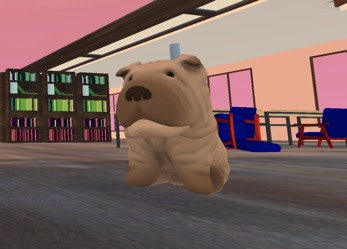
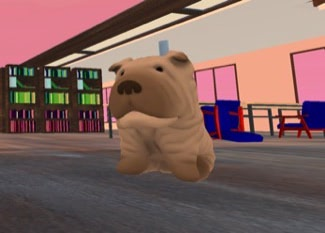
Fixed videos autoplay in the tutorial webpage

diff --git a/Tutorial.hyperesources/tutorial_hype_generated_script.js b/Tutorial.hyperesources/tutorial_hype_generated_script.js
@@ -3,5 +3,5 @@
 (function(){(function m(){function k(a,b,c,d){var e=!1;null==window[a]&&(null==window[b]?(window[b]=[],window[b].push(m),a=document.getElementsByTagName("head")[0],b=document.createElement("script"),e=l,false==!0&&(e=""),b.type="text/javascript",""!=d&&(b.integrity=d,b.setAttribute("crossorigin","anonymous")),b.src=e+"/"+c,a.appendChild(b)):window[b].push(m),e=!0);return e}var l="Tutorial.hyperesources",f="Tutorial",g="tutorial_hype_container";if(false==
 !1)try{for(var c=document.getElementsByTagName("script"),a=0;a<c.length;a++){var d=c[a].src,b=null!=d?d.indexOf("/tutorial_hype_generated_script.js"):-1;if(-1!=b){l=d.substr(0,b);break}}}catch(p){}c=null==navigator.userAgentData&&navigator.userAgent.match(/MSIE (\d+\.\d+)/);c=parseFloat(c&&c[1])||null;d=!0==(null!=window.HYPE_772F||null!=window.HYPE_dtl_772F)||false==!0||null!=c&&10>c;a=!0==d?"HYPE-772.full.min.js":"HYPE-772.thin.min.js";c=!0==d?"F":"T";
 d=d?"":"";if(false==!1&&(a=k("HYPE_772"+c,"HYPE_dtl_772"+c,a,d),false==!0&&(a=a||k("HYPE_w_772","HYPE_wdtl_772","HYPE-772.waypoints.min.js","")),false==!0&&(a=a||k("Matter","HYPE_pdtl_772","HYPE-772.physics.min.js","")),a))return;d=window.HYPE.documents;if(null!=d[f]){b=1;a=f;do f=""+a+"-"+b++;while(null!=d[f]);for(var e=
-document.getElementsByTagName("div"),b=!1,a=0;a<e.length;a++)if(e[a].id==g&&null==e[a].getAttribute("HYP_dn")){var b=1,h=g;do g=""+h+"-"+b++;while(null!=document.getElementById(g));e[a].id=g;b=!0;break}if(!1==b)return}b=[];b=[];e={};h={};for(a=0;a<b.length;a++)try{h[b[a].identifier]=b[a].name,e[b[a].name]=eval("(function(){return "+b[a].source+"})();")}catch(n){window.console&&window.console.log(n),e[b[a].name]=function(){}}c=new window["HYPE_772"+c](f,g,{"3":{n:"camera.mp4",g:"14",t:"video/mp4"},"-2":{n:"blank.gif"},"4":{p:1,n:"bg.jpg",g:"60",o:true,t:"@1x"},"0":{n:"smartphone.mp4",g:"8",t:"video/mp4"},"1":{n:"movement.mp4",g:"10",t:"video/mp4"},"2":{p:1,n:"dog.jpg",g:"12",t:"@1x"},"-1":{n:"PIE.htc"}},
-l,[],e,[{n:"Tutorial Scene",o:"1",X:[0,1]}],[{o:"74",p:"600px",cA:false,a:100,Z:1600,Y:812,c:"#FFF",L:[],bY:1,d:320,U:{},T:{kTimelineDefaultIdentifier:{q:false,z:12.1,i:"kTimelineDefaultIdentifier",n:"Main Timeline",a:[{y:0,p:1,i:"Video Track",z:7.26,o:"80",f:"c"},{y:0,p:1,i:"Video Track",z:11.16,o:"83",f:"c"},{y:0,p:1,i:"Video Track",z:12.1,o:"78",f:"c"}],f:30,b:[]}},bZ:180,O:["84","77","75","76","83","78","80","79","81","82"],n:"iPhone","_":0,v:{"78":{aR:"1",x:"visible",bE:"14",a:389,bS:41,j:"absolute",bF:"75",b:662,aO:"0",z:6,d:233,aK:24,aJ:24,k:"video",aI:24,c:332,aL:24,aQ:"1",aH:"1"},"81":{h:"12",p:"no-repeat",x:"visible",a:396,q:"100% 100%",bS:41,j:"absolute",r:"inline",bF:"75",b:1206,z:5,d:233,aK:24,dB:"img",aJ:24,k:"div",aI:24,aL:24,c:325},"76":{aU:8,G:"#EBEBEB",c:691,bS:44,aV:8,r:"inline",d:1330,s:"Helvetica,Arial,Sans-Serif",t:16,Z:"break-word",w:"<div><span style=\"font-weight: bold; font-size: 24px;\">Once upon a time...</span><br></div><div>Every day a boy \ud83d\udc68\ud83c\udffd\u200d\ud83d\udcbb wakes up and goes to the library \ud83d\udcda to focus on his projects, some days though, it's very hard to do so, everything seems to distract him. \ud83d\ude2b</div><div>&nbsp;</div><div>Today in the jungle, I mean, the library, hidden between the bookshelfs there are his worst concentration saboteurs: <span style=\"font-style: italic;\">the ringing smartphones</span>.</div><div>&nbsp;</div><div>&nbsp;There is only one way to focus today, he needs to <span style=\"font-weight: bold;\">mute 'em all! </span>\ud83d\udd15</div><div>&nbsp;</div><div><br></div><div><br></div><div>&nbsp;</div><div><span style=\"font-weight: bold; font-size: 32px;\">How to play</span></div><div><span style=\"font-weight: bold;\"><br></span></div><div>&nbsp;</div><div><br></div><div><br></div><div><br></div><div><br></div><div><br></div><div><br></div><div>&nbsp;\ud83c\udfc3\u200d\u2642\ufe0f Drag the left side of the screen to <span style=\"font-weight: bold;\">walk</span></div><div>&nbsp;</div><div>&nbsp;</div><div><br></div><div><br></div><div><br></div><div><br></div><div><br></div><div>&nbsp;</div><div><br></div><div><br></div><div><br></div><div><br></div><div><br></div><div>&nbsp;\ud83c\udfa5 Drag the right side to move the <span style=\"font-weight: bold;\">camera</span></div><div><span style=\"font-weight: bold;\"><br></span></div><div><span style=\"font-weight: bold;\"><br></span></div><div><span style=\"font-weight: bold;\"><br></span></div><div><span style=\"font-weight: bold;\"><br></span></div><div><span style=\"font-weight: bold;\"><br></span></div><div><span style=\"font-weight: bold;\"><br></span></div><div><span style=\"font-weight: bold;\"><br></span></div><div><span style=\"font-weight: bold;\"><br></span></div><div><span style=\"font-weight: bold;\"><br></span></div><div>&nbsp;</div><div>&nbsp;</div><div>&nbsp;</div><div><br></div><div><br></div><div><br></div><div><br></div><div><br></div><div><br></div><div><br></div><div>&nbsp;</div><div><br></div><div><br></div><div><br></div><div><br></div><div><br></div><div><br></div><div><br></div><div><br></div><div><br></div><div><br></div><div><br></div><div><br></div><div><br></div><div><br></div><div><br></div><div><br></div><div><br></div><div><br></div><div><br></div>",bF:"75",j:"absolute",x:"visible",k:"div",y:"preserve",z:8,aS:8,aT:8,a:32,b:40},"84":{w:"",h:"60",p:"no-repeat",a:-1082,bS:191,q:"100% 100%",bA:"#000",j:"absolute",r:"inline",x:"visible",b:0,bB:0,d:1600,z:1,dB:"img",k:"div",bC:0,c:3186,aZ:0},"79":{aU:8,bB:0,G:"#000",c:400,bS:44,aV:8,r:"inline",d:67,bC:0,s:"Helvetica,Arial,Sans-Serif",t:16,Z:"break-word",w:"<span style=\"caret-color: rgb(235, 235, 235); color: rgb(235, 235, 235);\">\ud83d\ude21 What the heck? these smartphones are going crazy!! Find the ringing phone and mute it, someone must be messing with them, cause they fire one after the other!</span><br>",bF:"75",j:"absolute",x:"visible",aZ:0,k:"div",y:"preserve",z:2,aS:8,aT:8,a:32,bA:"#000",b:1009},"82":{aU:8,G:"#000",c:309,bS:44,aV:8,r:"inline",d:50,s:"Helvetica,Arial,Sans-Serif",t:16,Z:"break-word",w:"<div style=\"color: rgb(235, 235, 235); font-size: 16px; font-family: Helvetica, Arial, sans-serif; font-style: normal; font-variant-caps: normal; text-decoration: none; text-align: left; text-transform: none; text-indent: 0px; letter-spacing: normal; white-space: normal; word-spacing: 0px; border-width: medium; border-style: none; caret-color: rgb(235, 235, 235);\">\ud83d\udc36 Your&nbsp;<span style=\"font-weight: bold; border-width: medium; border-style: none;\">spiteful dog&nbsp;</span>is running under the tables, catching him won't be easy, he'll try to run away from you!</div>",bF:"75",j:"absolute",x:"visible",k:"div",y:"preserve",z:9,aS:8,aT:8,a:32,b:1290},"77":{b:0,z:1,K:"Solid",BDbK:0.95933361,c:742,L:"Solid",d:1473,gg:"2",BDbG:0,e:1,M:1,N:1,aS:1,bS:45,O:1,aT:1,aU:1,P:1,bF:"75",BDbL:6,aV:1,Q:0,R:"#000",j:"absolute",aW:0,S:0,k:"div",T:0,aI:36,aJ:36,aK:36,BDbI:1.2,aL:36,A:"rgba(216, 221, 228, 0.094)",B:"rgba(216, 221, 228, 0.094)",bL:0,C:"rgba(216, 221, 228, 0.094)",D:"rgba(216, 221, 228, 0.094)",BDbJ:1.20476444,w:"",x:"visible",I:"Solid",a:0,J:"Solid"},"80":{aR:"1",x:"visible",bE:"8",a:476,bS:41,j:"absolute",bF:"75",b:934,aO:"0",z:3,d:233,aK:24,aJ:24,k:"video",aI:24,c:245,aL:24,aQ:"1",aH:"1"},"75":{x:"visible",cY:"0",k:"div",c:927,d:1521,z:4,a:34,bS:173,j:"absolute",b:45},"83":{c:287,bS:41,d:233,aO:"0",bE:"10",aH:"1",bF:"75",aI:24,j:"absolute",dA:"1",x:"visible",aR:"1",aJ:24,k:"video",aQ:"1",z:4,aK:24,a:434,aL:24,b:390}}},{o:"3",p:"600px",cA:false,a:100,Z:1600,Y:1024,c:"#FFF",L:[],bY:1,d:1024,U:{},T:{kTimelineDefaultIdentifier:{q:false,z:12.1,i:"kTimelineDefaultIdentifier",n:"Main Timeline",a:[{y:0,p:1,i:"Video Track",z:7.26,o:"90",f:"c"},{y:0,p:1,i:"Video Track",z:11.16,o:"89",f:"c"},{y:0,p:1,i:"Video Track",z:12.1,o:"91",f:"c"}],f:30,b:[]}},bZ:180,O:["94","93","85","87","89","91","90","88","86","92"],n:"iPad","_":1,v:{"91":{aR:"1",x:"visible",bE:"14",a:550,bS:41,j:"absolute",bF:"85",b:662,aO:"0",z:6,d:233,aK:24,aJ:24,k:"video",aI:24,c:332,aL:24,aQ:"1",aH:"1"},"86":{h:"12",p:"no-repeat",x:"visible",a:557,q:"100% 100%",bS:41,j:"absolute",r:"inline",bF:"85",b:1206,z:5,d:233,aK:24,dB:"img",aJ:24,k:"div",aI:24,aL:24,c:325},"94":{w:"",h:"60",p:"no-repeat",a:-1082,bS:191,q:"100% 100%",bA:"#000",j:"absolute",r:"inline",x:"visible",b:0,bB:0,d:1600,z:1,dB:"img",k:"div",bC:0,c:3186,aZ:0},"89":{c:287,bS:41,d:233,aO:"0",bE:"10",aH:"1",bF:"85",aI:24,j:"absolute",dA:"1",x:"visible",aR:"1",aJ:24,k:"video",aQ:"1",z:4,aK:24,a:595,aL:24,b:390},"92":{aU:8,G:"#000",c:427,bS:44,aV:8,r:"inline",d:50,s:"Helvetica,Arial,Sans-Serif",t:16,Z:"break-word",w:"<div style=\"color: rgb(235, 235, 235); font-size: 16px; font-family: Helvetica, Arial, sans-serif; font-style: normal; font-variant-caps: normal; text-decoration: none; text-align: left; text-transform: none; text-indent: 0px; letter-spacing: normal; white-space: normal; word-spacing: 0px; border-width: medium; border-style: none; caret-color: rgb(235, 235, 235);\">\ud83d\udc36 Your&nbsp;<span style=\"font-weight: bold; border-width: medium; border-style: none;\">spiteful dog&nbsp;</span>is running under the tables, catching him won't be easy, he'll try to run away from you!</div>",bF:"85",j:"absolute",x:"visible",k:"div",y:"preserve",z:9,aS:8,aT:8,a:32,b:1290},"87":{aU:8,G:"#EBEBEB",c:869,bS:44,aV:8,r:"inline",d:1330,s:"Helvetica,Arial,Sans-Serif",t:16,Z:"break-word",w:"<div><span style=\"font-weight: bold; font-size: 24px;\">Once upon a time...</span><br></div><div>Every day a boy \ud83d\udc68\ud83c\udffd\u200d\ud83d\udcbb wakes up and goes to the library \ud83d\udcda to focus on his projects, some days though, it's very hard to do so, everything seems to distract him. \ud83d\ude2b</div><div>&nbsp;</div><div>Today in the jungle, I mean, the library, hidden between the bookshelfs there are his worst concentration saboteurs: <span style=\"font-style: italic;\">the ringing smartphones</span>.</div><div>&nbsp;</div><div>&nbsp;There is only one way to focus today, he needs to <span style=\"font-weight: bold;\">mute 'em all! </span>\ud83d\udd15</div><div>&nbsp;</div><div><br></div><div><br></div><div>&nbsp;</div><div>&nbsp;<span style=\"font-weight: bold; font-size: 36px;\">How to play</span></div><div><span style=\"font-weight: bold;\"><br></span></div><div>&nbsp;</div><div><br></div><div><br></div><div><br></div><div><br></div><div><br></div><div><br></div><div>&nbsp;\ud83c\udfc3\u200d\u2642\ufe0f Drag the left side of the screen to <span style=\"font-weight: bold;\">walk</span></div><div>&nbsp;</div><div>&nbsp;</div><div><br></div><div><br></div><div><br></div><div><br></div><div><br></div><div>&nbsp;</div><div><br></div><div><br></div><div><br></div><div><br></div><div><br></div><div>&nbsp;\ud83c\udfa5 Drag the right side to move the <span style=\"font-weight: bold;\">camera</span></div><div><span style=\"font-weight: bold;\"><br></span></div><div><span style=\"font-weight: bold;\"><br></span></div><div><span style=\"font-weight: bold;\"><br></span></div><div><span style=\"font-weight: bold;\"><br></span></div><div><span style=\"font-weight: bold;\"><br></span></div><div><span style=\"font-weight: bold;\"><br></span></div><div><span style=\"font-weight: bold;\"><br></span></div><div><span style=\"font-weight: bold;\"><br></span></div><div><span style=\"font-weight: bold;\"><br></span></div><div>&nbsp;</div><div>&nbsp;</div><div>&nbsp;</div><div><br></div><div><br></div><div><br></div><div><br></div><div><br></div><div><br></div><div><br></div><div>&nbsp;</div><div><br></div><div><br></div><div><br></div><div><br></div><div><br></div><div><br></div><div><br></div><div><br></div><div><br></div><div><br></div><div><br></div><div><br></div><div><br></div><div><br></div><div><br></div><div><br></div><div><br></div><div><br></div><div><br></div>",bF:"85",j:"absolute",x:"visible",k:"div",y:"preserve",z:8,aS:8,aT:8,a:32,b:40},"90":{aR:"1",x:"visible",bE:"8",a:637,bS:41,j:"absolute",bF:"85",b:934,aO:"0",z:3,d:233,aK:24,aJ:24,k:"video",aI:24,c:245,aL:24,aQ:"1",aH:"1"},"85":{x:"visible",cY:"0",k:"div",c:927,d:1521,z:4,a:47,bS:173,j:"absolute",b:45},"93":{b:0,z:1,K:"Solid",BDbK:0.95933361,c:923,L:"Solid",d:1473,gg:"2",BDbG:0,e:1,M:1,N:1,aS:1,bS:45,O:1,aT:1,aU:1,P:1,bF:"85",BDbL:6,aV:1,Q:0,R:"#000",j:"absolute",aW:0,S:0,k:"div",T:0,aI:36,aJ:36,aK:36,BDbI:1.2,aL:36,A:"rgba(216, 221, 228, 0.094)",B:"rgba(216, 221, 228, 0.094)",bL:0,C:"rgba(216, 221, 228, 0.094)",D:"rgba(216, 221, 228, 0.094)",BDbJ:1.20476444,w:"",x:"visible",I:"Solid",a:0,J:"Solid"},"88":{aU:8,bB:0,G:"#000",c:427,bS:44,aV:8,r:"inline",d:67,bC:0,s:"Helvetica,Arial,Sans-Serif",t:16,Z:"break-word",w:"<span style=\"caret-color: rgb(235, 235, 235); color: rgb(235, 235, 235);\">\ud83d\ude21 What the heck? these smartphones are going crazy!! Find the ringing phone and mute it, someone must be messing with them, cause they fire one after the other!</span><br>",bF:"85",j:"absolute",x:"visible",aZ:0,k:"div",y:"preserve",z:2,aS:8,aT:8,a:32,bA:"#000",b:1009}}}],{},h,{},null,false,true,-1,true,true,false,true,true);d[f]=c.API;document.getElementById(g).setAttribute("HYP_dn",f);c.z_o(this.body)})();})();
+document.getElementsByTagName("div"),b=!1,a=0;a<e.length;a++)if(e[a].id==g&&null==e[a].getAttribute("HYP_dn")){var b=1,h=g;do g=""+h+"-"+b++;while(null!=document.getElementById(g));e[a].id=g;b=!0;break}if(!1==b)return}b=[];b=[];e={};h={};for(a=0;a<b.length;a++)try{h[b[a].identifier]=b[a].name,e[b[a].name]=eval("(function(){return "+b[a].source+"})();")}catch(n){window.console&&window.console.log(n),e[b[a].name]=function(){}}c=new window["HYPE_772"+c](f,g,{"3":{p:1,n:"dog_2x.jpg",g:"12",o:true,t:"@2x"},"-2":{n:"blank.gif"},"4":{n:"camera.mp4",g:"14",t:"video/mp4"},"0":{n:"smartphone.mp4",g:"8",t:"video/mp4"},"5":{p:1,n:"bg.jpg",g:"60",o:true,t:"@1x"},"1":{n:"movement.mp4",g:"10",t:"video/mp4"},"-1":{n:"PIE.htc"},"2":{p:1,n:"dog.jpg",g:"12",o:true,t:"@1x"}},
+l,[],e,[{n:"Tutorial Scene",o:"1",X:[0,1]}],[{o:"74",p:"600px",cA:false,a:100,Z:1600,Y:812,c:"#FFF",L:[],bY:1,d:320,U:{},T:{kTimelineDefaultIdentifier:{q:false,z:12.1,i:"kTimelineDefaultIdentifier",n:"Main Timeline",a:[{y:0,p:1,i:"Video Track",z:7.26,o:"80",f:"c"},{y:0,p:1,i:"Video Track",z:11.16,o:"83",f:"c"},{y:0,p:1,i:"Video Track",z:12.1,o:"78",f:"c"}],f:30,b:[]}},bZ:180,O:["84","77","75","76","83","78","80","79","81","82"],n:"iPhone","_":0,v:{"78":{c:332,bS:41,d:233,aO:"0",bE:"14",aH:"1",bF:"75",aI:24,j:"absolute",dA:true,x:"visible",aR:"1",aJ:24,k:"video",aQ:"1",z:6,aK:24,a:389,aL:24,b:662},"81":{h:"12",p:"no-repeat",x:"visible",a:396,q:"100% 100%",bS:41,j:"absolute",r:"inline",bF:"75",b:1206,z:5,d:233,aK:24,dB:"img",aJ:24,k:"div",aI:24,aL:24,c:325},"76":{aU:8,G:"#EBEBEB",c:691,bS:44,aV:8,r:"inline",d:1330,s:"Helvetica,Arial,Sans-Serif",t:16,Z:"break-word",w:"<div><span style=\"font-weight: bold; font-size: 24px;\">Once upon a time...</span><br></div><div>Every day a boy \ud83d\udc68\ud83c\udffd\u200d\ud83d\udcbb wakes up and goes to the library \ud83d\udcda to focus on his projects, some days though, it's very hard to do so, everything seems to distract him. \ud83d\ude2b</div><div>&nbsp;</div><div>Today in the jungle, I mean, the library, hidden between the bookshelfs there are his worst concentration saboteurs: <span style=\"font-style: italic;\">the ringing smartphones</span>.</div><div>&nbsp;</div><div>&nbsp;There is only one way to focus today, he needs to <span style=\"font-weight: bold;\">mute 'em all! </span>\ud83d\udd15</div><div>&nbsp;</div><div><br></div><div><br></div><div>&nbsp;</div><div><span style=\"font-weight: bold; font-size: 32px;\">How to play</span></div><div><span style=\"font-weight: bold;\"><br></span></div><div>&nbsp;</div><div><br></div><div><br></div><div><br></div><div><br></div><div><br></div><div><br></div><div>&nbsp;\ud83c\udfc3\u200d\u2642\ufe0f Drag the left side of the screen to <span style=\"font-weight: bold;\">walk</span></div><div>&nbsp;</div><div>&nbsp;</div><div><br></div><div><br></div><div><br></div><div><br></div><div><br></div><div>&nbsp;</div><div><br></div><div><br></div><div><br></div><div><br></div><div><br></div><div>&nbsp;\ud83c\udfa5 Drag the right side to move the <span style=\"font-weight: bold;\">camera</span></div><div><span style=\"font-weight: bold;\"><br></span></div><div><span style=\"font-weight: bold;\"><br></span></div><div><span style=\"font-weight: bold;\"><br></span></div><div><span style=\"font-weight: bold;\"><br></span></div><div><span style=\"font-weight: bold;\"><br></span></div><div><span style=\"font-weight: bold;\"><br></span></div><div><span style=\"font-weight: bold;\"><br></span></div><div><span style=\"font-weight: bold;\"><br></span></div><div><span style=\"font-weight: bold;\"><br></span></div><div>&nbsp;</div><div>&nbsp;</div><div>&nbsp;</div><div><br></div><div><br></div><div><br></div><div><br></div><div><br></div><div><br></div><div><br></div><div>&nbsp;</div><div><br></div><div><br></div><div><br></div><div><br></div><div><br></div><div><br></div><div><br></div><div><br></div><div><br></div><div><br></div><div><br></div><div><br></div><div><br></div><div><br></div><div><br></div><div><br></div><div><br></div><div><br></div><div><br></div>",bF:"75",j:"absolute",x:"visible",k:"div",y:"preserve",z:8,aS:8,aT:8,a:32,b:40},"84":{w:"",h:"60",p:"no-repeat",a:-1082,bS:191,q:"100% 100%",bA:"#000",j:"absolute",r:"inline",x:"visible",b:0,bB:0,d:1600,z:1,dB:"img",k:"div",bC:0,c:3186,aZ:0},"79":{aU:8,bB:0,G:"#000",c:400,bS:44,aV:8,r:"inline",d:67,bC:0,s:"Helvetica,Arial,Sans-Serif",t:16,Z:"break-word",w:"<span style=\"caret-color: rgb(235, 235, 235); color: rgb(235, 235, 235);\">\ud83d\ude21 What the heck? these smartphones are going crazy!! Find the ringing phone and mute it, someone must be messing with them, cause they fire one after the other!</span><br>",bF:"75",j:"absolute",x:"visible",aZ:0,k:"div",y:"preserve",z:2,aS:8,aT:8,a:32,bA:"#000",b:1009},"82":{aU:8,G:"#000",c:309,bS:44,aV:8,r:"inline",d:50,s:"Helvetica,Arial,Sans-Serif",t:16,Z:"break-word",w:"<div style=\"color: rgb(235, 235, 235); font-size: 16px; font-family: Helvetica, Arial, sans-serif; font-style: normal; font-variant-caps: normal; text-decoration: none; text-align: left; text-transform: none; text-indent: 0px; letter-spacing: normal; white-space: normal; word-spacing: 0px; border-width: medium; border-style: none; caret-color: rgb(235, 235, 235);\">\ud83d\udc36 Your&nbsp;<span style=\"font-weight: bold; border-width: medium; border-style: none;\">spiteful dog&nbsp;</span>is running under the tables, catching him won't be easy, he'll try to run away from you!</div>",bF:"75",j:"absolute",x:"visible",k:"div",y:"preserve",z:9,aS:8,aT:8,a:32,b:1290},"77":{b:0,z:1,K:"Solid",BDbK:0.95933361,c:742,L:"Solid",d:1473,gg:"2",BDbG:0,e:1,M:1,N:1,aS:1,bS:45,O:1,aT:1,aU:1,P:1,bF:"75",BDbL:6,aV:1,Q:0,R:"#000",j:"absolute",aW:0,S:0,k:"div",T:0,aI:36,aJ:36,aK:36,BDbI:1.2,aL:36,A:"rgba(216, 221, 228, 0.094)",B:"rgba(216, 221, 228, 0.094)",bL:0,C:"rgba(216, 221, 228, 0.094)",D:"rgba(216, 221, 228, 0.094)",BDbJ:1.20476444,w:"",x:"visible",I:"Solid",a:0,J:"Solid"},"80":{c:245,bS:41,d:233,aO:"0",bE:"8",aH:"1",bF:"75",aI:24,j:"absolute",dA:true,x:"visible",aR:"1",aJ:24,k:"video",aQ:"1",z:3,aK:24,a:476,aL:24,b:934},"75":{x:"visible",cY:"0",k:"div",c:927,d:1521,z:4,a:34,bS:173,j:"absolute",b:45},"83":{c:287,bS:41,d:233,aO:"0",bE:"10",aH:"1",bF:"75",aI:24,j:"absolute",dA:"1",x:"visible",aR:"1",aJ:24,k:"video",aQ:"1",z:4,aK:24,a:434,aL:24,b:390}}},{o:"3",p:"600px",cA:false,a:100,Z:1600,Y:1024,c:"#FFF",L:[],bY:1,d:1112,U:{},T:{kTimelineDefaultIdentifier:{q:false,z:12.1,i:"kTimelineDefaultIdentifier",n:"Main Timeline",a:[{y:0,p:1,i:"Video Track",z:7.26,o:"90",f:"c"},{y:0,p:1,i:"Video Track",z:11.16,o:"89",f:"c"},{y:0,p:1,i:"Video Track",z:12.1,o:"91",f:"c"}],f:30,b:[]}},bZ:180,O:["94","93","85","87","89","91","90","88","86","92"],n:"iPad","_":1,v:{"91":{c:332,bS:41,d:233,aO:"0",bE:"14",aH:"1",bF:"85",aI:24,j:"absolute",dA:true,x:"visible",aR:"1",aJ:24,k:"video",aQ:"1",z:6,aK:24,a:550,aL:24,b:662},"86":{h:"12",p:"no-repeat",x:"visible",a:557,q:"100% 100%",bS:41,j:"absolute",r:"inline",bF:"85",b:1206,z:5,d:233,aK:24,dB:"img",aJ:24,k:"div",aI:24,aL:24,c:325},"94":{w:"",h:"60",p:"no-repeat",a:-1082,bS:191,q:"100% 100%",bA:"#000",j:"absolute",r:"inline",x:"visible",b:0,bB:0,d:1600,z:1,dB:"img",k:"div",bC:0,c:3186,aZ:0},"89":{c:287,bS:41,d:233,aO:"0",bE:"10",aH:"1",bF:"85",aI:24,j:"absolute",dA:"1",x:"visible",aR:"1",aJ:24,k:"video",aQ:"1",z:4,aK:24,a:595,aL:24,b:390},"92":{aU:8,G:"#000",c:427,bS:44,aV:8,r:"inline",d:50,s:"Helvetica,Arial,Sans-Serif",t:16,Z:"break-word",w:"<div style=\"color: rgb(235, 235, 235); font-size: 16px; font-family: Helvetica, Arial, sans-serif; font-style: normal; font-variant-caps: normal; text-decoration: none; text-align: left; text-transform: none; text-indent: 0px; letter-spacing: normal; white-space: normal; word-spacing: 0px; border-width: medium; border-style: none; caret-color: rgb(235, 235, 235);\">\ud83d\udc36 Your&nbsp;<span style=\"font-weight: bold; border-width: medium; border-style: none;\">spiteful dog&nbsp;</span>is running under the tables, catching him won't be easy, he'll try to run away from you!</div>",bF:"85",j:"absolute",x:"visible",k:"div",y:"preserve",z:9,aS:8,aT:8,a:32,b:1290},"87":{aU:8,G:"#EBEBEB",c:869,bS:44,aV:8,r:"inline",d:1330,s:"Helvetica,Arial,Sans-Serif",t:16,Z:"break-word",w:"<div><span style=\"font-weight: bold; font-size: 24px;\">Once upon a time...</span><br></div><div>Every day a boy \ud83d\udc68\ud83c\udffd\u200d\ud83d\udcbb wakes up and goes to the library \ud83d\udcda to focus on his projects, some days though, it's very hard to do so, everything seems to distract him. \ud83d\ude2b</div><div>&nbsp;</div><div>Today in the jungle, I mean, the library, hidden between the bookshelfs there are his worst concentration saboteurs: <span style=\"font-style: italic;\">the ringing smartphones</span>.</div><div>&nbsp;</div><div>&nbsp;There is only one way to focus today, he needs to <span style=\"font-weight: bold;\">mute 'em all! </span>\ud83d\udd15</div><div>&nbsp;</div><div><br></div><div><br></div><div>&nbsp;</div><div>&nbsp;<span style=\"font-weight: bold; font-size: 36px;\">How to play</span></div><div><span style=\"font-weight: bold;\"><br></span></div><div>&nbsp;</div><div><br></div><div><br></div><div><br></div><div><br></div><div><br></div><div><br></div><div>&nbsp;\ud83c\udfc3\u200d\u2642\ufe0f Drag the left side of the screen to <span style=\"font-weight: bold;\">walk</span></div><div>&nbsp;</div><div>&nbsp;</div><div><br></div><div><br></div><div><br></div><div><br></div><div><br></div><div>&nbsp;</div><div><br></div><div><br></div><div><br></div><div><br></div><div><br></div><div>&nbsp;\ud83c\udfa5 Drag the right side to move the <span style=\"font-weight: bold;\">camera</span></div><div><span style=\"font-weight: bold;\"><br></span></div><div><span style=\"font-weight: bold;\"><br></span></div><div><span style=\"font-weight: bold;\"><br></span></div><div><span style=\"font-weight: bold;\"><br></span></div><div><span style=\"font-weight: bold;\"><br></span></div><div><span style=\"font-weight: bold;\"><br></span></div><div><span style=\"font-weight: bold;\"><br></span></div><div><span style=\"font-weight: bold;\"><br></span></div><div><span style=\"font-weight: bold;\"><br></span></div><div>&nbsp;</div><div>&nbsp;</div><div>&nbsp;</div><div><br></div><div><br></div><div><br></div><div><br></div><div><br></div><div><br></div><div><br></div><div>&nbsp;</div><div><br></div><div><br></div><div><br></div><div><br></div><div><br></div><div><br></div><div><br></div><div><br></div><div><br></div><div><br></div><div><br></div><div><br></div><div><br></div><div><br></div><div><br></div><div><br></div><div><br></div><div><br></div><div><br></div>",bF:"85",j:"absolute",x:"visible",k:"div",y:"preserve",z:8,aS:8,aT:8,a:32,b:40},"90":{c:245,bS:41,d:233,aO:"0",bE:"8",aH:"1",bF:"85",aI:24,j:"absolute",dA:true,x:"visible",aR:"1",aJ:24,k:"video",aQ:"1",z:3,aK:24,a:637,aL:24,b:934},"85":{x:"visible",cY:"0",k:"div",c:927,d:1521,z:4,a:47,bS:173,j:"absolute",b:45},"93":{b:0,z:1,K:"Solid",BDbK:0.95933361,c:923,L:"Solid",d:1473,gg:"2",BDbG:0,e:1,M:1,N:1,aS:1,bS:45,O:1,aT:1,aU:1,P:1,bF:"85",BDbL:6,aV:1,Q:0,R:"#000",j:"absolute",aW:0,S:0,k:"div",T:0,aI:36,aJ:36,aK:36,BDbI:1.2,aL:36,A:"rgba(216, 221, 228, 0.094)",B:"rgba(216, 221, 228, 0.094)",bL:0,C:"rgba(216, 221, 228, 0.094)",D:"rgba(216, 221, 228, 0.094)",BDbJ:1.20476444,w:"",x:"visible",I:"Solid",a:0,J:"Solid"},"88":{aU:8,bB:0,G:"#000",c:427,bS:44,aV:8,r:"inline",d:67,bC:0,s:"Helvetica,Arial,Sans-Serif",t:16,Z:"break-word",w:"<span style=\"caret-color: rgb(235, 235, 235); color: rgb(235, 235, 235);\">\ud83d\ude21 What the heck? these smartphones are going crazy!! Find the ringing phone and mute it, someone must be messing with them, cause they fire one after the other!</span><br>",bF:"85",j:"absolute",x:"visible",aZ:0,k:"div",y:"preserve",z:2,aS:8,aT:8,a:32,bA:"#000",b:1009}}}],{},h,{},null,false,true,-1,true,true,false,true,true);d[f]=c.API;document.getElementById(g).setAttribute("HYP_dn",f);c.z_o(this.body)})();})();

diff --git a/Tutorial.html b/Tutorial.html
@@ -24,7 +24,7 @@
 	<!-- copy these lines to your document: -->
 
 	<div id="tutorial_hype_container" class="HYPE_document" style="margin:auto;position:relative;width:100%;height:1600px;overflow:hidden;">
-		<script type="text/javascript" charset="utf-8" src="Tutorial.hyperesources/tutorial_hype_generated_script.js?99950"></script>
+		<script type="text/javascript" charset="utf-8" src="Tutorial.hyperesources/tutorial_hype_generated_script.js?91689"></script>
 	</div>
 
 	<!-- end copy -->
